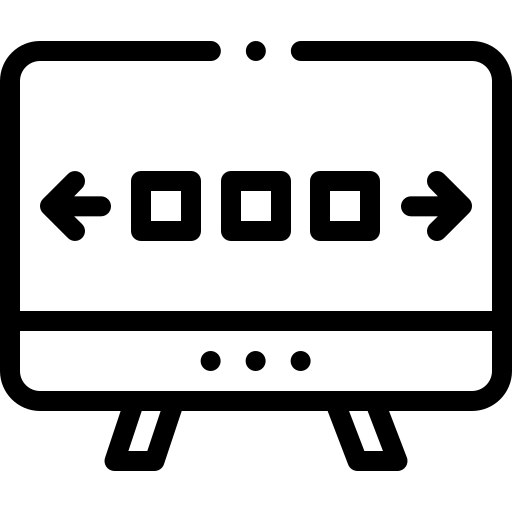
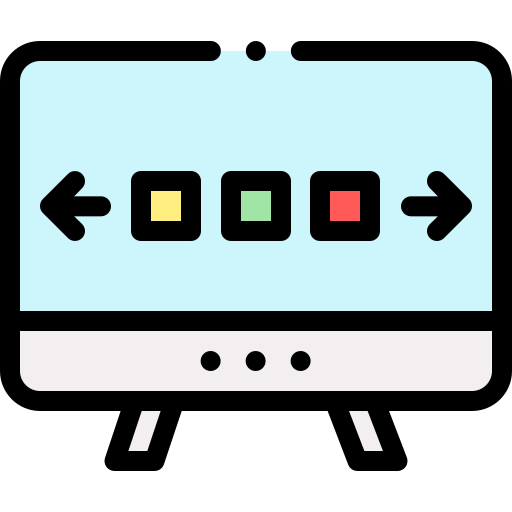
alteração da cor de fundo e do texto

diff --git a/assets/js/main.js b/assets/js/main.js
@@ -1,6 +1,6 @@
-window.addEventListener('scroll', onScroll) //adiciona o evento de scroll na página
+window.addEventListener('scroll', onScroll)
 
-onScroll() //corrige o bug de carregamento de página
+onScroll()
 function onScroll() {
     showNavOnScroll()
     backToTopButtonOnScroll()
@@ -13,25 +13,18 @@ function onScroll() {
     activateMenuAtCurrentSection(contato)
 }
 
-//Função para deixar a opção do menu ativa conforme scroll na página.
 function activateMenuAtCurrentSection(section) {
-    //Cria uma linha imaginária (linha alvo)
     const targetLine = scrollY + innerHeight / 2
     
-    //topo da seção
     const sectionTop = section.offsetTop
 
-    //altura da seção
     const sectionHeight = section.offsetHeight
 
-    //o topo da seção chegou ou ultrapassou a linha alvo
     const sectionTopReachOrPassedTargetLine = targetLine >= sectionTop
     
-    //verifica se a base está abaixo da linha alvo
     const sectionEndsAt = sectionTop + sectionHeight
     const sectionEndPassedTargetLine = sectionEndsAt <= targetLine
    
-    //limites da seção
     const sectionBoundaries = sectionTopReachOrPassedTargetLine && !sectionEndPassedTargetLine
 
     const sectionId = section.getAttribute('id')
@@ -64,7 +57,6 @@ function backToTopButtonOnScroll() {
 }
 console.log(backToTopButtonOnScroll());
 
-//abrir e fechar o menu expansível
 function openMenu() {
     document.body.classList.add('menu-expanded')
 }
@@ -72,7 +64,6 @@ function openMenu() {
 function closeMenu() {
     document.body.classList.remove('menu-expanded')
 }
-
 
 ScrollReveal({
     origin:'top',
@@ -86,3 +77,4 @@ ScrollReveal({
 #formacao,
 #contato
 `)
+

diff --git a/assets/css/responsivo.css b/assets/css/responsivo.css
@@ -1,3 +1,5 @@
+
+
 /*----- SMARTPHONE -----*/
 /*----- MENU EXPANSÍVEL -----*/
 @media screen and (max-width: 500px) {
@@ -24,7 +26,6 @@
     .sobre__sobre {
         font-size: 2rem;
         margin-top: 5rem;
-        background: linear-gradient(120deg, var(--nav-bar1), 30%, var(--background));
         padding: 3rem 0;
     }
 
@@ -75,9 +76,13 @@
 
     .sobre__sobre {
         font-size: 2rem;
-        margin-top: 10rem;
-        background: linear-gradient(120deg, var(--nav-bar1), 30%, var(--background));
         padding: 3rem 0;
+    }
+
+    .hard__desenvolvendo {
+        width: 70%;
+        margin-inline: auto;
+        gap: 8rem;
     }
 
     /*----- HOBBIES -----*/
@@ -146,8 +151,17 @@
    
     .sobre__sobre {
         font-size: 2rem;
-        margin-top: 5rem;
-        background: linear-gradient(0deg, var(--nav-bar1), 1%, var(--background));
+    }
+
+    /*----- HARD SKILLS -----*/
+    #hard {
+        height: auto;
+    }
+
+    .hard__desenvolvendo {
+        width: 100%;
+        margin-inline: auto;
+        gap: 1rem;
     }
 
     /*----- HOBBIES -----*/
@@ -167,6 +181,13 @@
 
     .wrapper {
         width: min(992px, 100%);
+    }
+
+    /*----- HARD SKILLS -----*/
+    .hard__desenvolvendo {
+        width: auto;
+        padding: auto;
+        gap: 2rem;
     }
 
     /*----- PROJETOS -----*/   

diff --git a/assets/css/style.css b/assets/css/style.css
@@ -3,8 +3,8 @@
     --font-family: 'Libre Baskerville', serif;
     font-size: 62.5%;
 
-    --background: hsl(277, 100%, 48%);
-    --nav-bar1: hsl(271, 79%, 15%);
+    --background: hsl(271, 79%, 15%);
+    --nav-bar1: hsl(277, 100%, 48%);
     --nav-bar2: hsl(167, 81%, 29%);
     --color: hsl(0, 12%, 89%);
     --dark: hsl(240, 23%, 18%);
@@ -16,6 +16,7 @@
 html {
     scroll-behavior: smooth;
 }
+
 html,
 body {
     width: 100%;
@@ -37,7 +38,8 @@ body {
 }
 
 section {
-    padding-block: 10rem 0;
+    padding-block: 5rem 0;
+    width: 100vw;
 }
 
 .nome {
@@ -51,7 +53,7 @@ section {
 .fa-linkedin {
     opacity: 0;
     font-size: 3rem;
-    color: var(--dark);
+    color: var(--color);
     will-change: transform;
     transform: scale(1.2);
     transition: all .3s ease;
@@ -67,7 +69,7 @@ section {
     width: 35rem;
     height: 7rem;
 
-    margin-top: 10rem;
+    margin-top: var(--nav-height);
     margin-inline: auto;
     padding: 0 1.8rem;
 
@@ -96,10 +98,10 @@ span {
     letter-spacing: .3rem;
     border-radius: 8rem;
 
-    color: var(--color);
-    background-color: var(--dark);
+    color: var(--dark);
+    background-color: var(--color);
     transition: all 1.2s ease;
-    box-shadow: 5px 5px 10px 0 var(--dark);
+    box-shadow: 5px 5px 10px 0 var(--color);
 }
 
 .container {

diff --git a/assets/css/skills.css b/assets/css/skills.css
@@ -1,8 +1,11 @@
 /*----- HARD SKILLS -----*/  
 #hard {
+    height: 100vh;
+    margin-top: var(--nav-height);
+    padding-top: 2rem;
     padding-left: 1rem;
-    margin-top: 10rem;
 } 
+
 .hard__skills h2 {
     margin-top: 3rem;
     text-align: center;
@@ -25,6 +28,12 @@
     margin: 4rem 0;
 }
 
+.hard__desenvolvendo {
+    width: 90%;
+    margin-inline: auto;
+    gap: 3rem;
+}
+
 .hard__desenvolvidas img,
 .hard__desenvolvendo img {
     width: 80px;
@@ -32,11 +41,11 @@
 
 /*----- HOBBIES -----*/
 #hobbies {
-    margin-top: 10rem;
+    margin-top: var(--nav-height);
+    padding: 5rem 1rem 1rem;
     display: flex;
     flex-direction: column;
     justify-content: center;
-    padding: 1rem;
     border-radius: 2rem;
 }
 
@@ -60,4 +69,5 @@
 .hobbies__hobbies img {
     width: 40%;
     margin-bottom: 1rem;
+    fill: var(--color);
 }

diff --git a/index.html b/index.html
@@ -64,6 +64,9 @@
         </nav>
     </header>
     <main id="principal">
+        <section id="dark-light">
+            <button aria-label="selecionar-modo" id="mode-selector">Dark Mode</button>
+        </section>
         <section id="home">
             <div class="wrapper">
                 <div class="home__sobre">

diff --git a/assets/css/projetos.css b/assets/css/projetos.css
@@ -1,10 +1,4 @@
 /*----- PROJETOS -----*/
-#projetos {
-    width: 100vw;
-    margin-top: var(--nav-height);
-    padding: 0;
-}
-
 #projetos .wrapper {
     width: 90%;
     margin-inline: auto;
